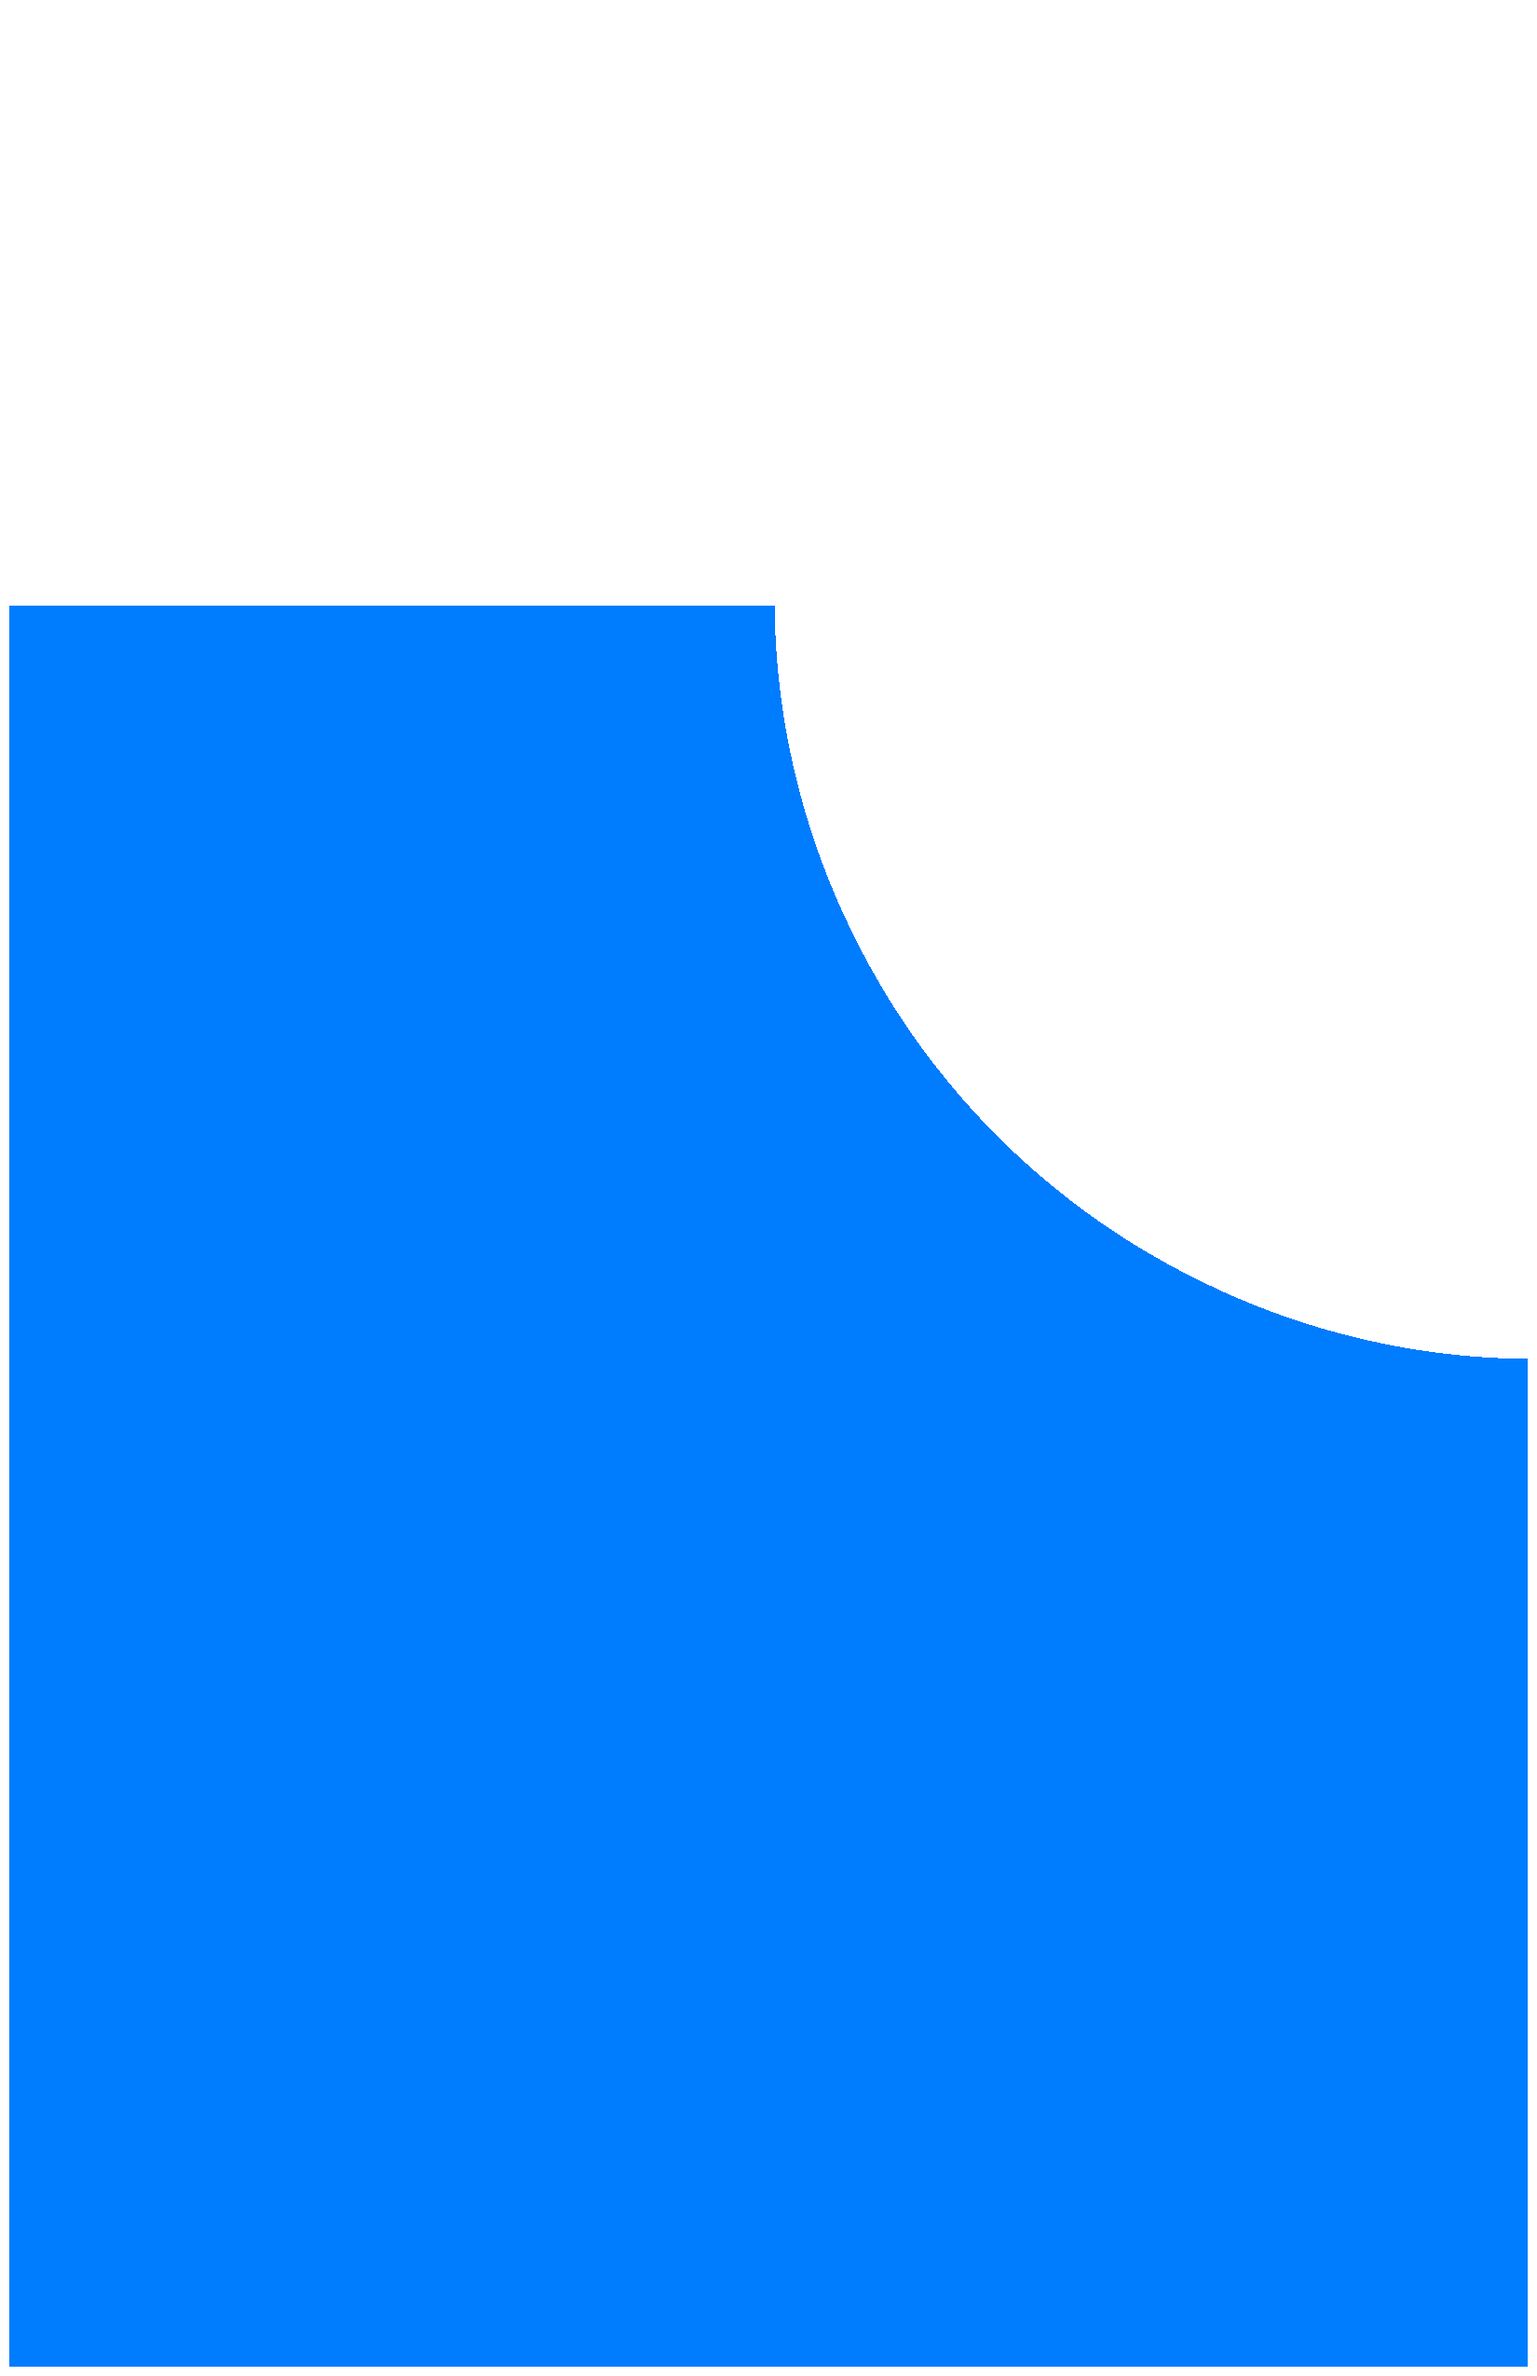
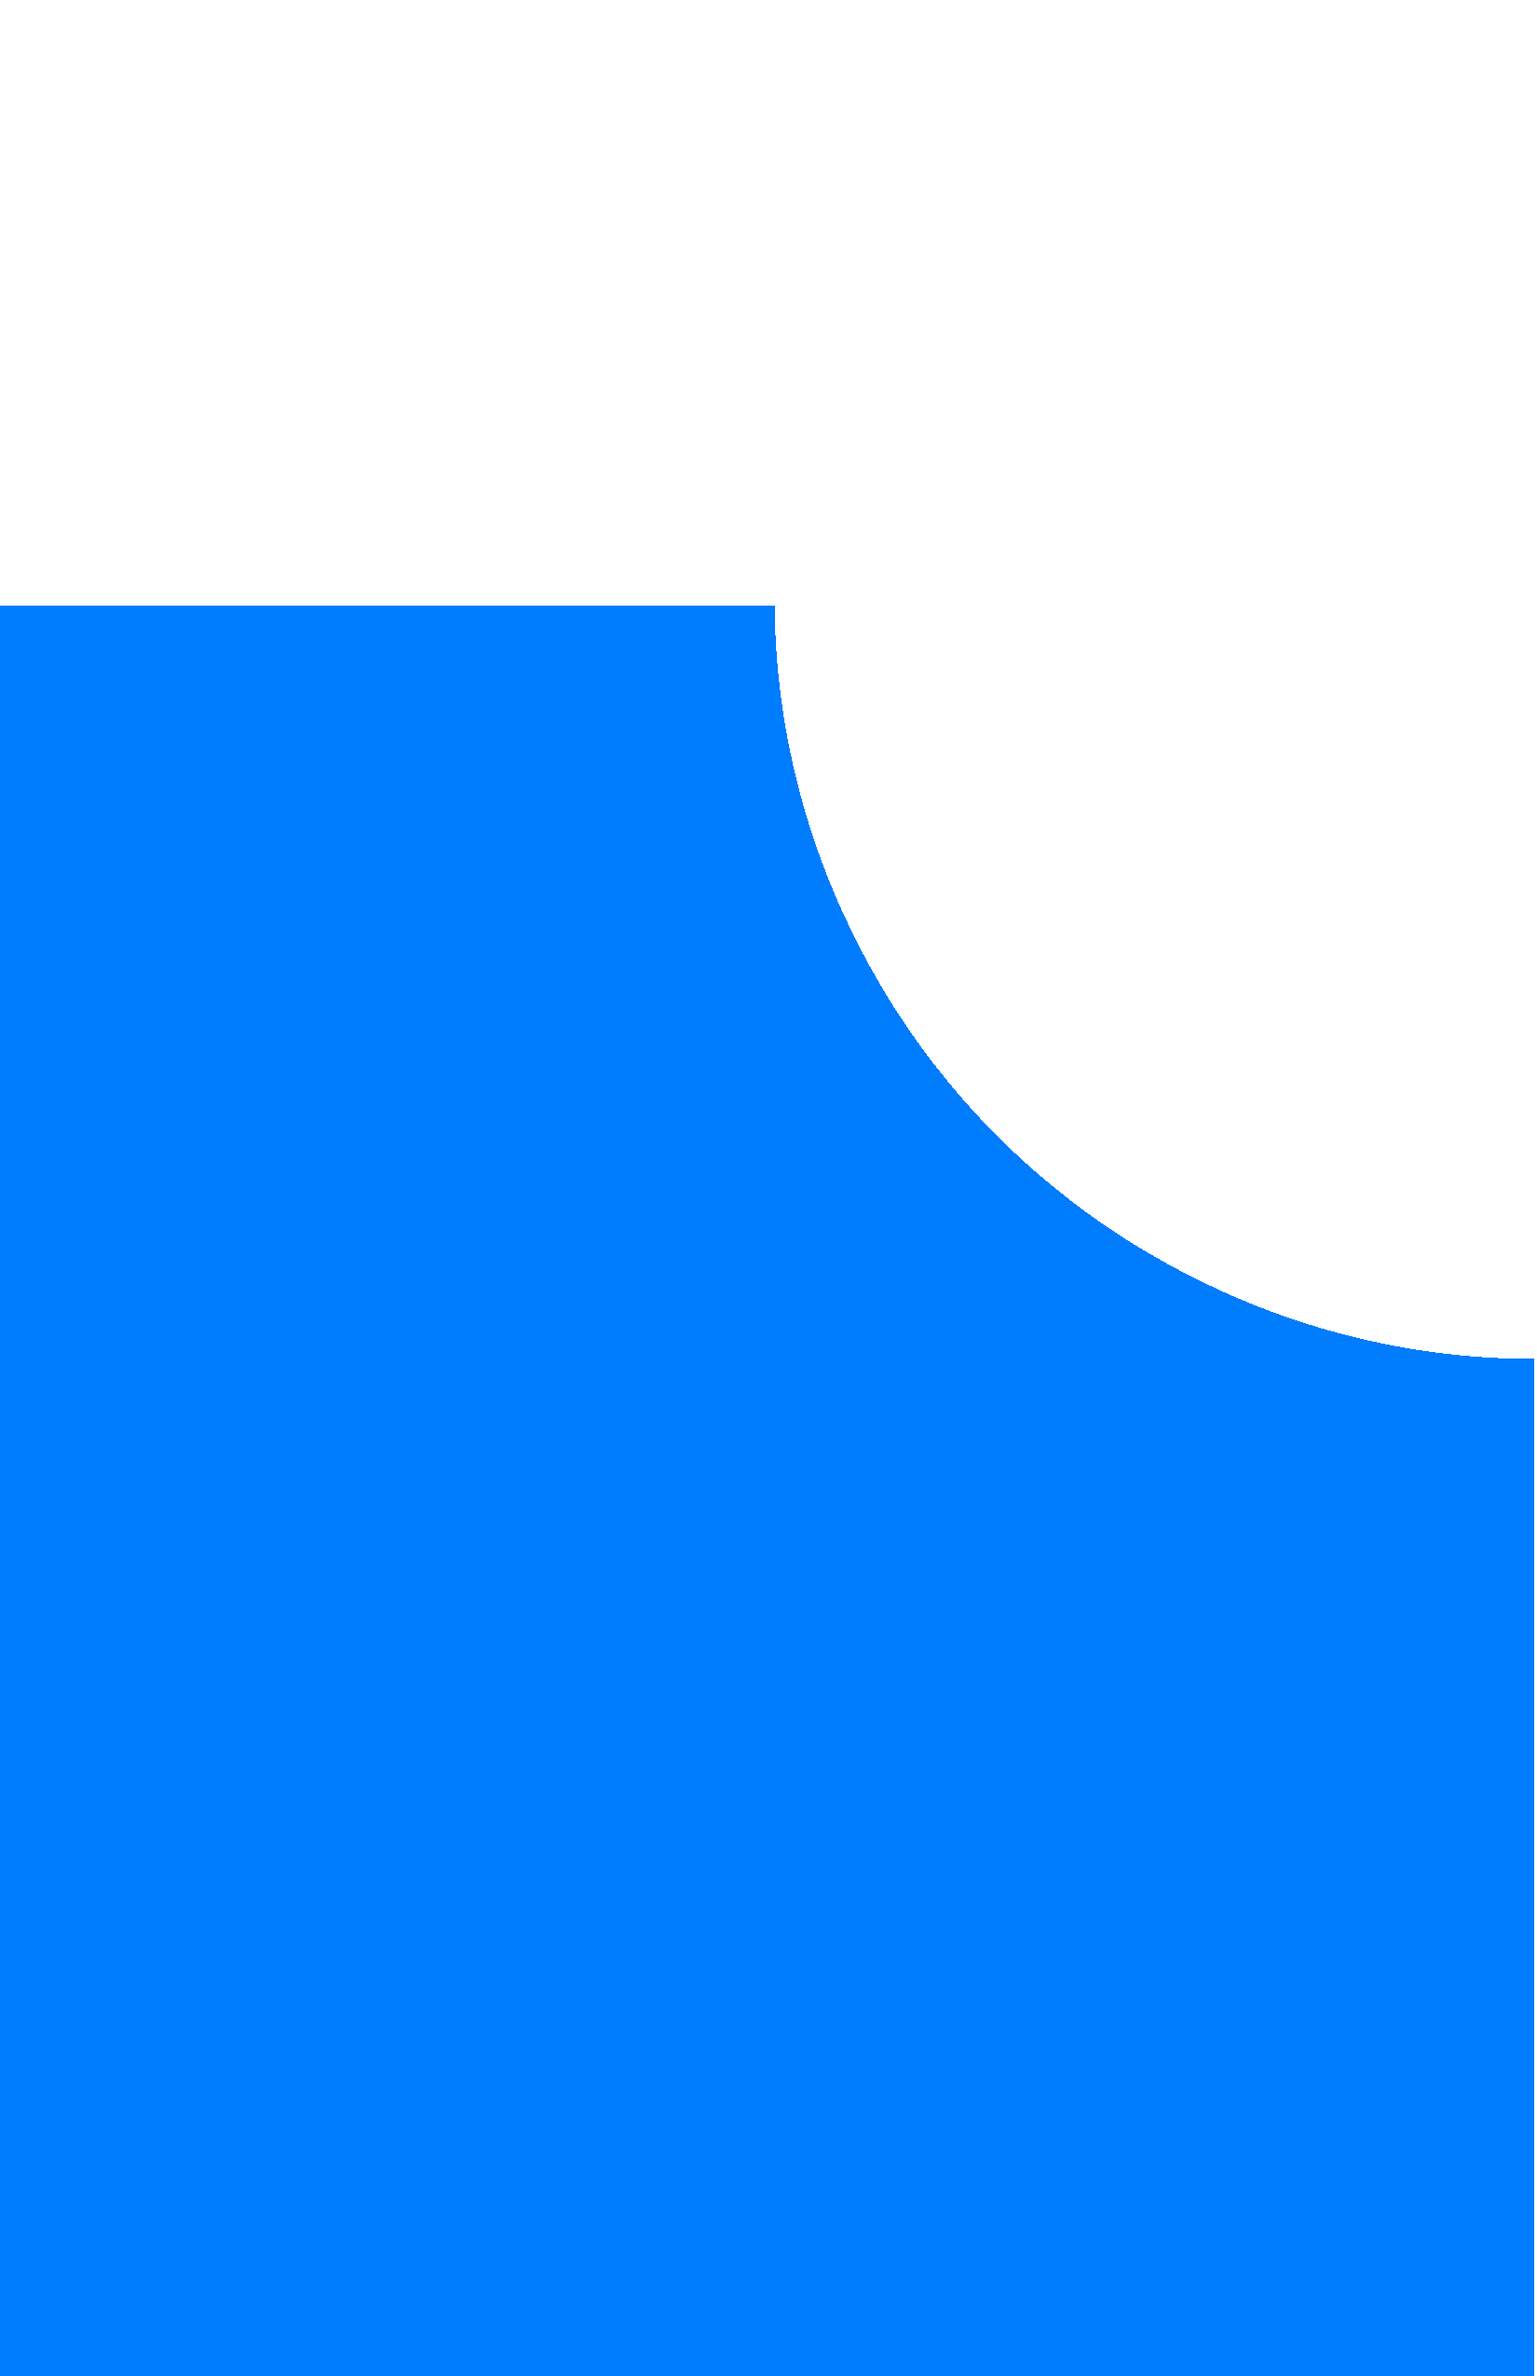
size changed

Changed region(s): [[0.0, 0.2478, 1.0, 1.0]]

diff --git a/style.css b/style.css
@@ -14,9 +14,8 @@ body {
 }
 
 .containerAspectRatio {
-    max-width: 1200px;
-    min-width: 1200px;
-    padding-top: 929px;
+    width: 90%;
+    padding-top: 50vw;
     /*C*/
     position: relative;
     margin: auto;
